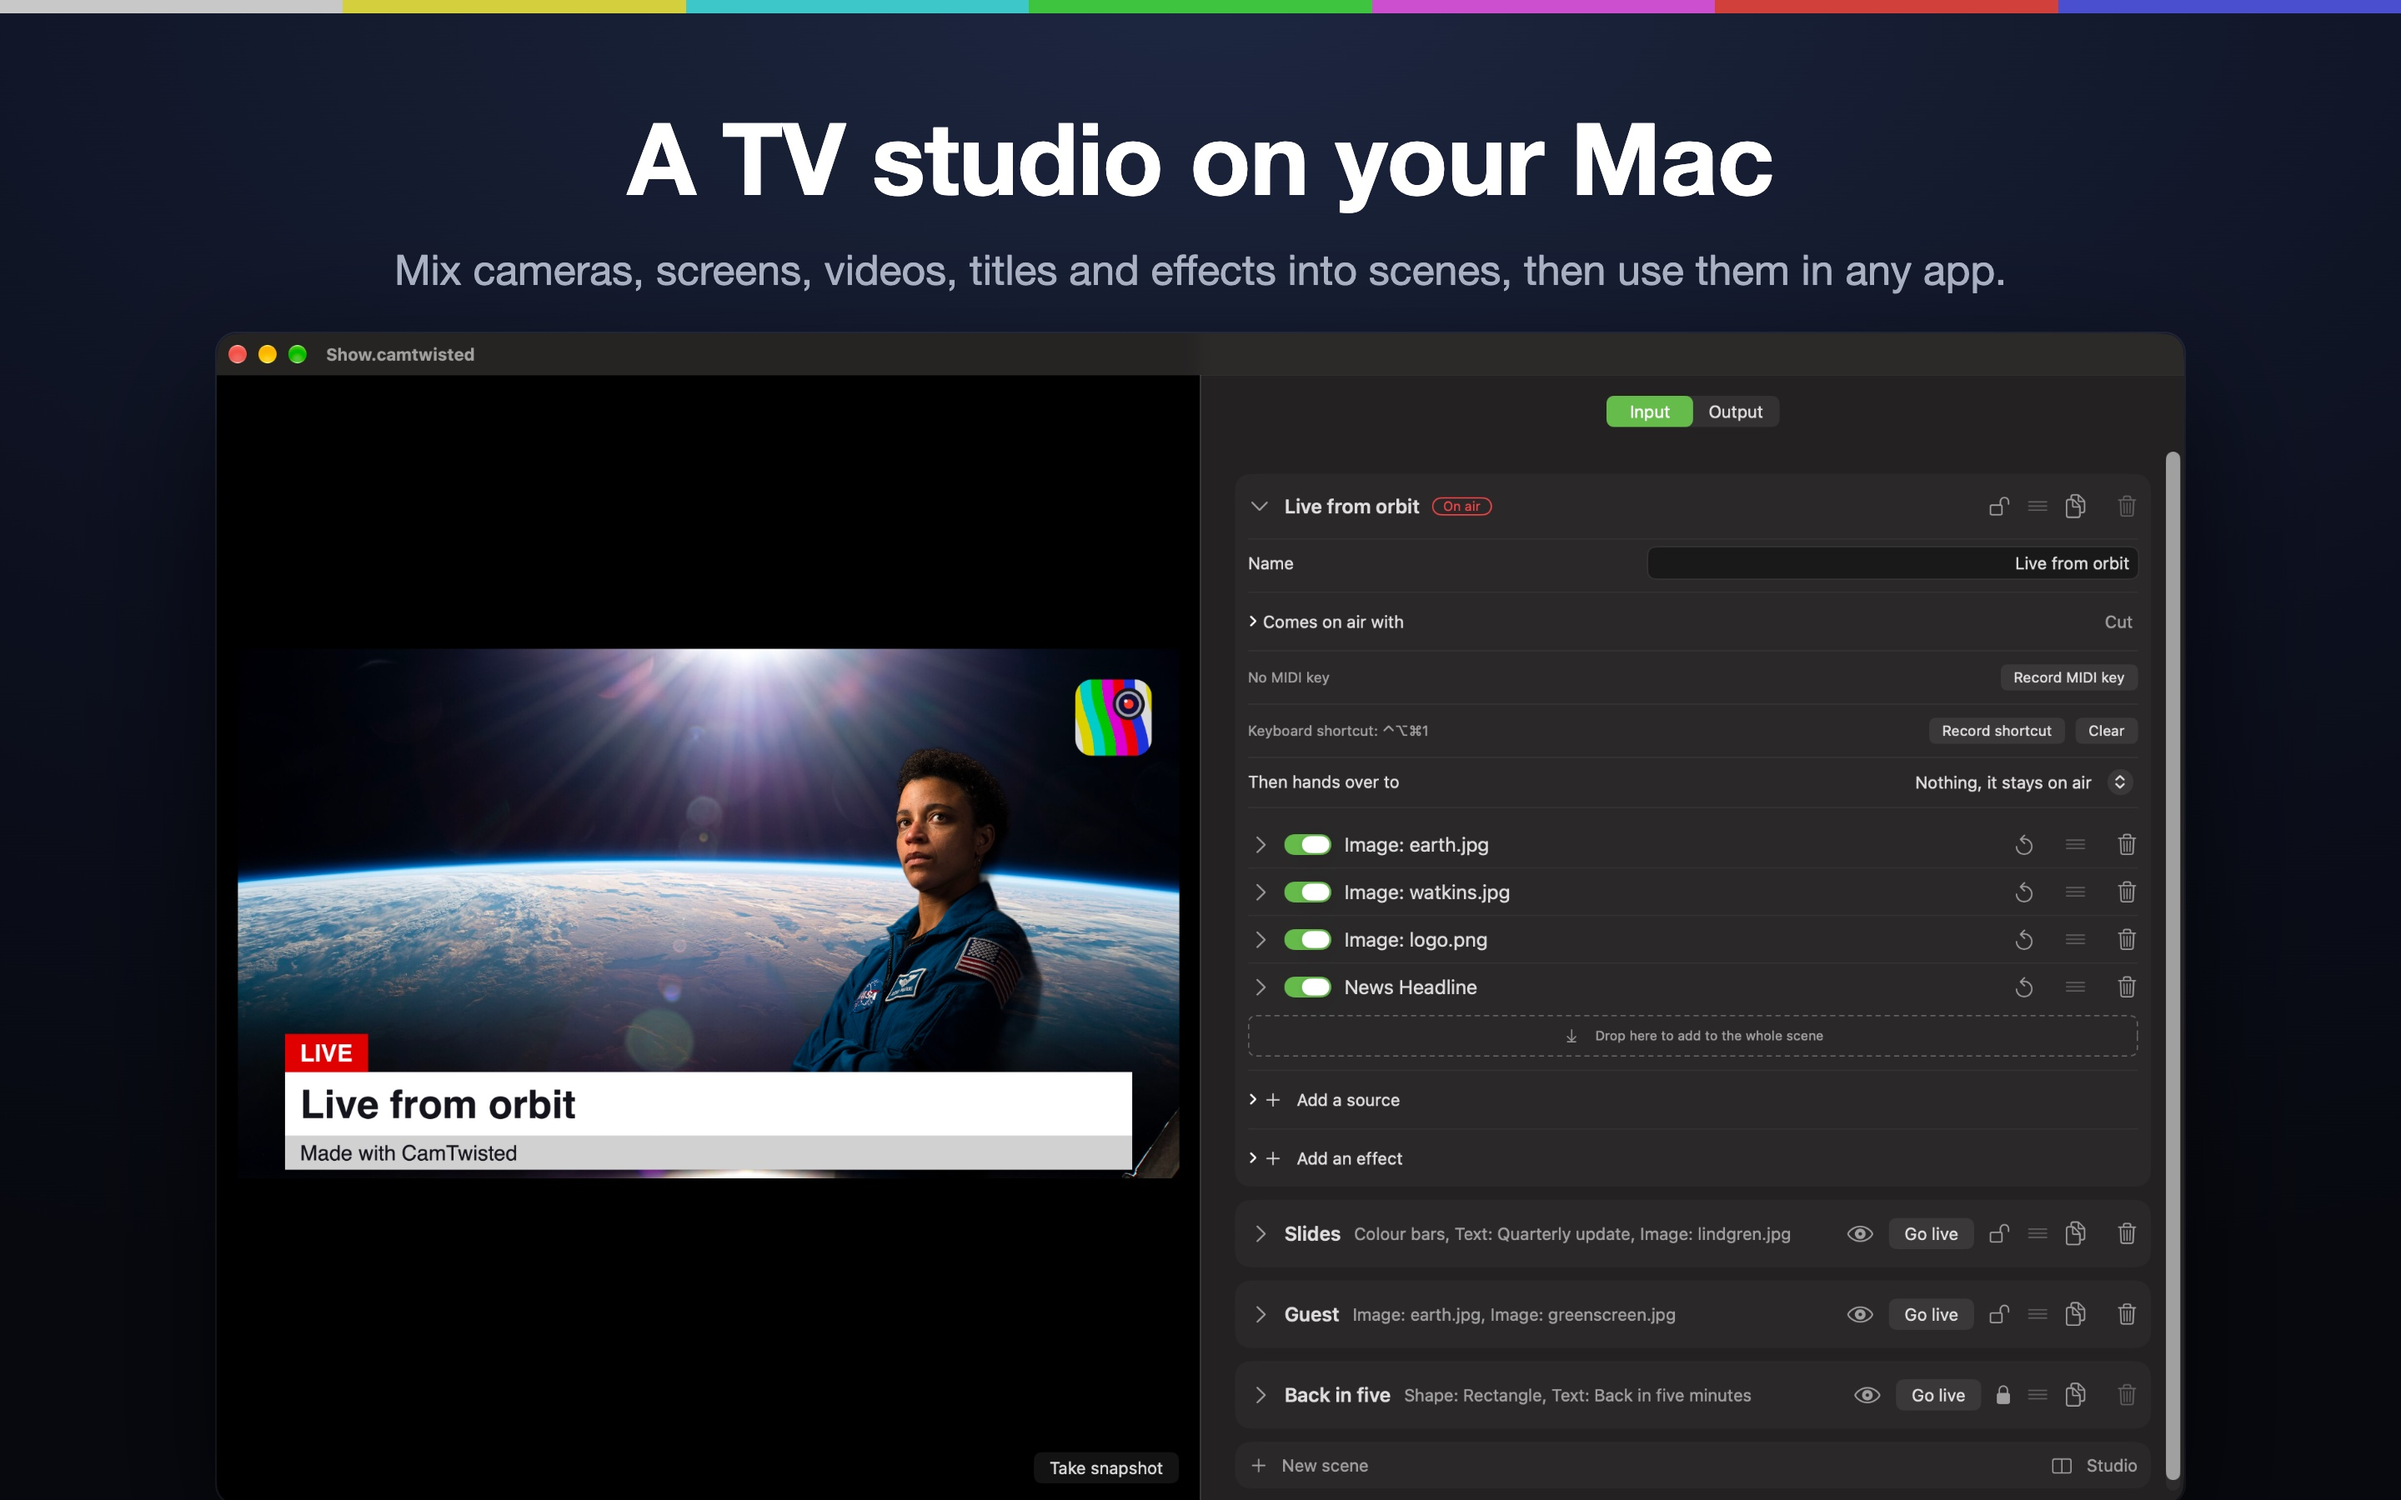
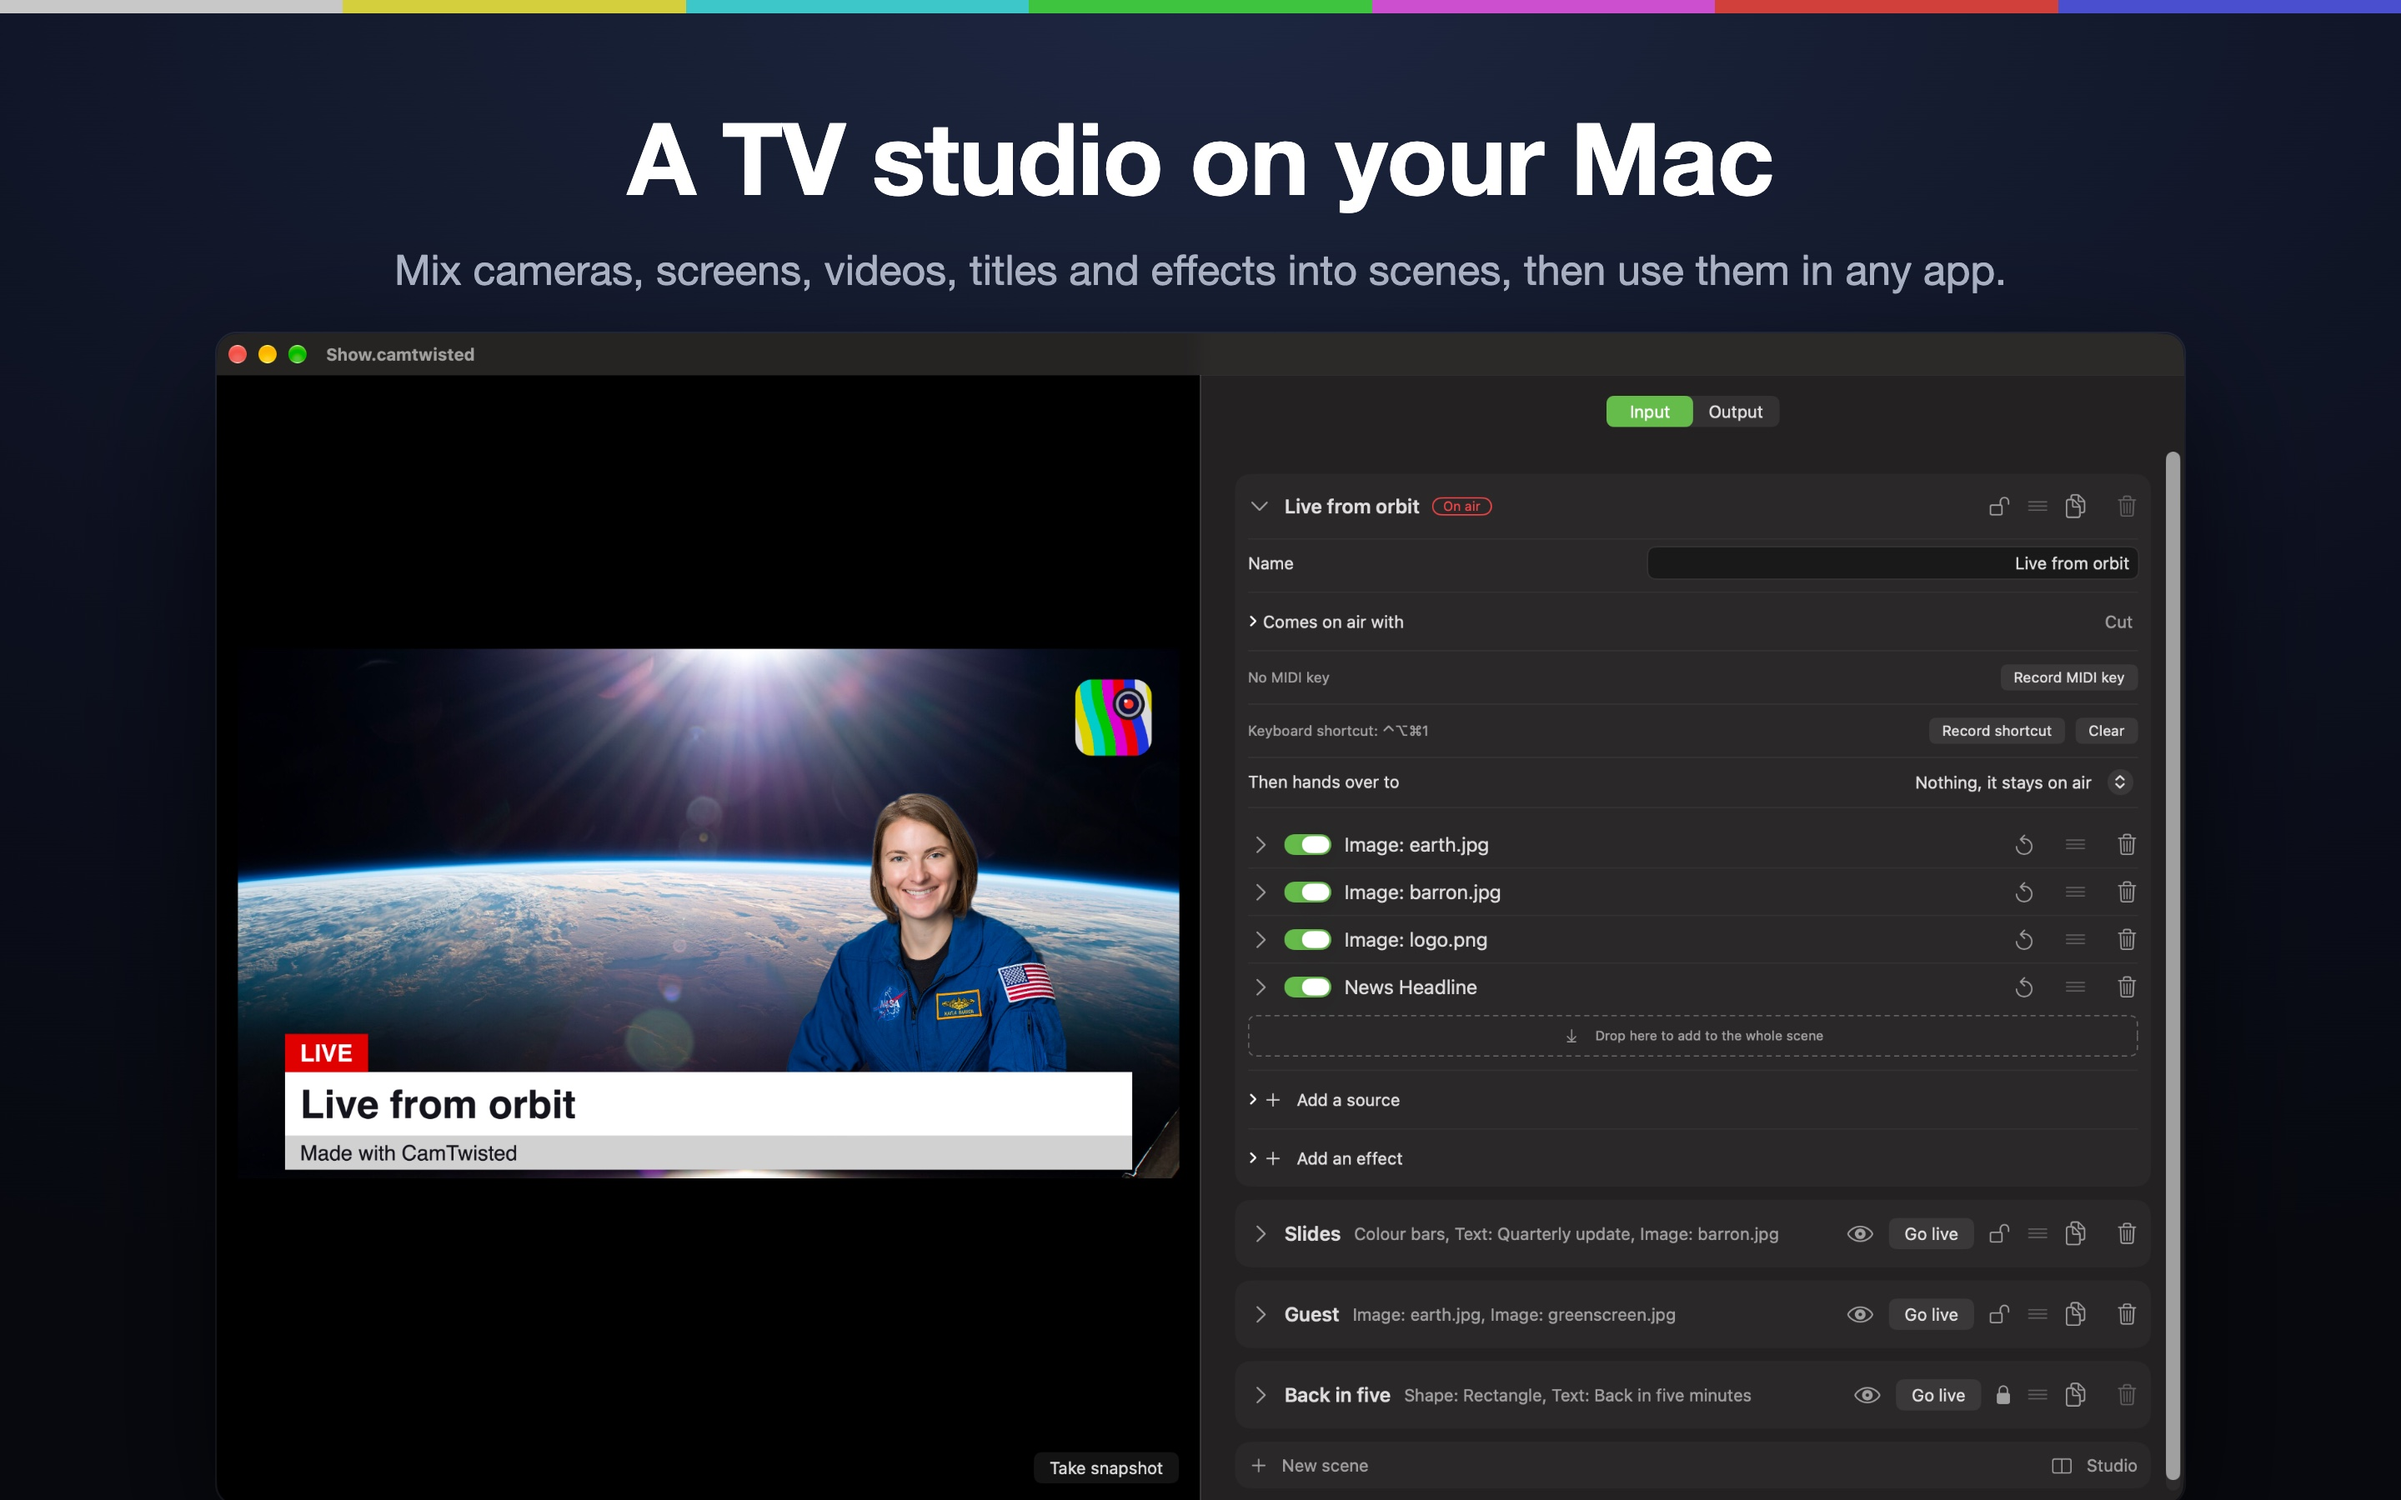
Show Kayla Barron in the README pictures and store screenshots
Every picture that had an astronaut in it now uses Kayla Barron's NASA
portrait, including the green screen photo, and the README alt text says
her photo.

Changed region(s): [[0.3125, 0.4978, 0.4688, 0.7156], [0.7188, 0.8089, 0.75, 0.84], [0.5938, 0.5911, 0.625, 0.6222]]

diff --git a/README.md b/README.md
@@ -168,7 +168,7 @@ Switch it on and everything that is not a person disappears, so whatever is unde
 shows through instead. No green screen, no lighting rig, no tidying the spare room. It works on a
 camera, a video, a still photo, anything with people in it.
 
-![An astronaut cut out of his photo and stood in front of the Earth](docs/images/remove-background.png)
+![An astronaut cut out of her photo and stood in front of the Earth](docs/images/remove-background.png)
 
 That is a portrait photo with its studio backdrop taken away, sat over a picture of the Earth.
 Swap the photo for your camera and the Earth for your slides, and you are presenting from
